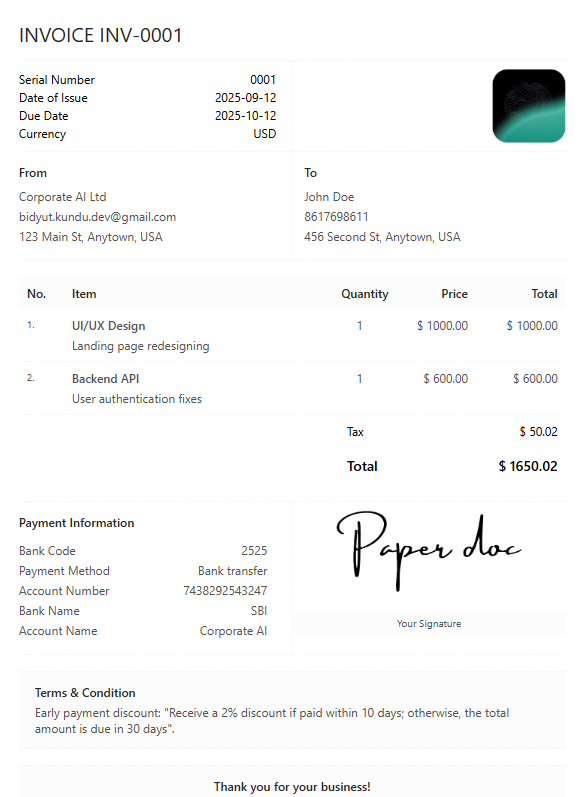
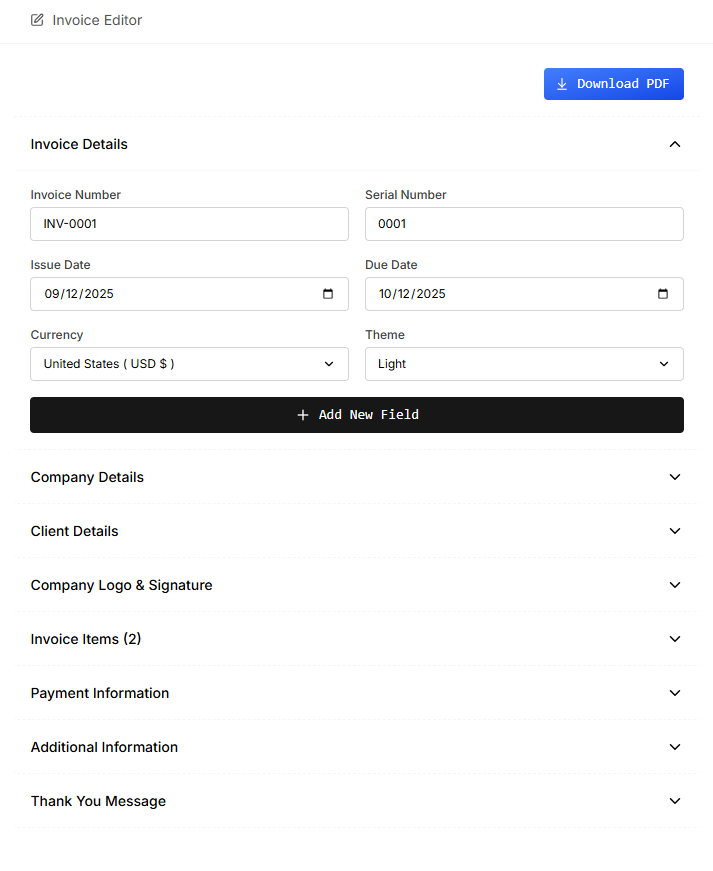
Border chnages

diff --git a/src/components/ui/Sidebar.jsx b/src/components/ui/Sidebar.jsx
@@ -1,21 +1,64 @@
-import React from 'react'
-import { FileText } from 'lucide-react';
+import React from "react";
+import { ArrowUpRight, Bug, FileText, Github, Heart, LayoutTemplate, Shapes } from "lucide-react";
 
-const Sidebar = ({ active = 'invoice', onSelect = () => {} }) => {
+const OPEN_SOURCE_PROJECTS = [
+  { name: "NextIcons", url: "https://nexticons.in", icon: Shapes },
+  { name: "Opensource UI", url: "https://opensourceui.in", icon: LayoutTemplate },
+];
+
+const LINKS = {
+  sponsor: "https://buymeacoffee.com/bidyutkundu",
+  github: "https://github.com/bidyut10",
+  twitter: "https://x.com/BidyutKundu12",
+};
+
+const BUG_REPORT_EMAIL =
+  "mailto:bidyut.kundu.dev@gmail.com?subject=Paperdoc%20Bug%20Report&body=Please%20describe%20the%20bug%20and%20how%20to%20reproduce%20it.";
+
+const navLinkClass =
+  "ml-6 flex cursor-pointer items-center gap-2 mt-3 text-neutral-500 transition-colors hover:text-neutral-900";
+
+const Sidebar = ({ active = "invoice", onSelect = () => {} }) => {
   return (
-    <div className="w-full h-full bg-white px-4 py-4 border-r border-neutral-100 animate-slide-in">
-      <div className="flex justify-start items-center gap-2 bg-neutral-50/50 rounded-sm px-4 py-1">
-        {/* <Wallet className="text-neutral-900" size={12} /> */}
-        <h1 className="text-neutral-900 text-xs">Finance</h1>
+    <div className="flex h-full min-h-[calc(100vh-4rem)] w-full flex-col bg-white px-4 py-4 border-r border-neutral-100 animate-slide-in">
+      <div>
+        <div className="flex justify-start items-center gap-2 bg-neutral-50/50 rounded-sm px-4 py-1">
+          {/* <Wallet className="text-neutral-900" size={12} /> */}
+          <h1 className="text-neutral-900 text-xs">Finance</h1>
+        </div>
+        <button
+          onClick={() => onSelect("invoice")}
+          className={`ml-6 cursor-pointer flex justify-start items-center gap-2 mt-3 ${active === "invoice" ? "" : ""}`}
+        >
+          <FileText
+            className={active === "invoice" ? "text-neutral-900" : "text-neutral-500"}
+            size={12}
+          />
+          <h1
+            className={
+              active === "invoice" ? "text-neutral-900 text-sm" : "text-neutral-500 text-sm"
+            }
+          >
+            Create Invoice
+          </h1>
+        </button>
+        <button
+          onClick={() => onSelect("receipt")}
+          className={`ml-6 cursor-pointer flex justify-start items-center gap-2 mt-3 ${active === "receipt" ? "" : ""}`}
+        >
+          <FileText
+            className={active === "receipt" ? "text-neutral-900" : "text-neutral-500"}
+            size={13}
+          />
+          <h1
+            className={
+              active === "receipt" ? "text-neutral-900 text-sm" : "text-neutral-500 text-sm"
+            }
+          >
+            Create Receipt
+          </h1>
+        </button>
       </div>
-      <button onClick={() => onSelect('invoice')} className={`ml-6 cursor-pointer flex justify-start items-center gap-2 mt-3 ${active === 'invoice' ? '' : ''}`}>
-        <FileText className={active === 'invoice' ? "text-neutral-900" : "text-neutral-500"} size={12} />
-        <h1 className={active === 'invoice' ? "text-neutral-900 text-sm" : "text-neutral-500 text-sm"}>Create Invoice</h1>
-      </button>
-      <button onClick={() => onSelect('receipt')} className={`ml-6 cursor-pointer flex justify-start items-center gap-2 mt-3 ${active === 'receipt' ? '' : ''}`}>
-        <FileText className={active === 'receipt' ? "text-neutral-900" : "text-neutral-500"} size={13} />
-        <h1 className={active === 'receipt' ? "text-neutral-900 text-sm" : "text-neutral-500 text-sm"}>Create Receipt</h1>
-      </button>
       {/* <div className="flex justify-start items-center gap-2 bg-neutral-50/50 rounded-sm px-4 py-1 mt-6">
         <h1 className="text-neutral-800 text-xs">Product</h1>
       </div>
@@ -27,8 +70,70 @@ const Sidebar = ({ active = 'invoice', onSelect = () => {} }) => {
         <FileText className="text-neutral-600" size={13} />
         <h1 className="text-neutral-600 text-sm">Create Receipt</h1>
       </div> */}
+
+      <div className="mt-auto">
+        <div className="mt-6 flex justify-start items-center gap-2 bg-neutral-50/50 rounded-sm px-4 py-1">
+          <h1 className="text-neutral-900 text-xs">More free tools</h1>
+        </div>
+        {OPEN_SOURCE_PROJECTS.map((project) => {
+          const Icon = project.icon;
+          return (
+            <a
+              key={project.url}
+              href={project.url}
+              target="_blank"
+              rel="noopener noreferrer"
+              className={navLinkClass}
+            >
+              <Icon className="text-neutral-500" size={12} />
+              <h1 className="text-sm text-neutral-500 hover:text-blue-800 border-b border-neutral-500 hover:border-blue-800">{project.name}</h1>
+            </a>
+          );
+        })}
+
+        <div className="mt-6 flex justify-start items-center gap-2 bg-neutral-50/50 rounded-sm px-4 py-1">
+          <h1 className="text-neutral-900 text-xs">Support</h1>
+        </div>
+        <a
+          href={LINKS.sponsor}
+          target="_blank"
+          rel="noopener noreferrer"
+          className={navLinkClass}
+        >
+          <Heart className="text-red-500 fill-red-500" size={12} />
+          <h1 className="text-sm text-neutral-500">Sponsor us</h1>
+        </a>
+        <a
+          href={LINKS.github}
+          target="_blank"
+          rel="noopener noreferrer"
+          className={navLinkClass}
+        >
+          <Github className="text-neutral-500" size={12} />
+          <h1 className="text-sm text-neutral-500">Star us on GitHub</h1>
+        </a>
+        <a
+          href={LINKS.twitter}
+          target="_blank"
+          rel="noopener noreferrer"
+          className={navLinkClass}
+        >
+          <ArrowUpRight className="text-neutral-500" size={12} />
+          <h1 className="text-sm text-neutral-500">Follow us on Twitter</h1>
+        </a>
+        <div className="mt-4 px-2">
+          <a
+            href={BUG_REPORT_EMAIL}
+            className="flex w-full cursor-pointer items-center justify-center gap-2 overflow-hidden rounded-sm bg-gradient-to-br from-red-400 to-red-500 px-3 py-2 text-white transition-all duration-200 hover:from-red-500 hover:to-red-600"
+          >
+            <Bug size={14} />
+            <span className="text-sm">Found a bug?  Tell us</span>
+            <ArrowUpRight size={14} strokeWidth={2.5} />
+          </a>
+        </div>
+      </div>
     </div>
   );
-}
+};
 
-export default Sidebar
+export default Sidebar;

diff --git a/src/components/ui/Navbar.jsx b/src/components/ui/Navbar.jsx
@@ -1,5 +1,5 @@
 import React, { useState, useEffect } from "react";
-import { Menu, X, Github } from "lucide-react";
+import { Menu, X } from "lucide-react";
 import Logo from "./Logo";
 
 const Navbar = ({
@@ -38,71 +38,38 @@ const Navbar = ({
   return (
     <nav className="fixed top-0 left-0 right-0 border-b w-full border-neutral-100 bg-white text-neutral-800 transition-all duration-300 ease-in-out selection:bg-neutral-200 selection:text-neutral-950 dark:border-[#1c1c1c] dark:bg-[#181818] z-50">
       <div className="mx-auto flex h-16 max-w-full bg-white items-center justify-between">
-        <div
-          className={`flex items-center justify-between gap-4 ${
-            isMobile ? "w-fit" : "w-[17%]"
-          } border-x-none h-full px-4 md:px-6 xl:border-x xl:border-neutral-100`}
-        >
-          {isMobile ? (
-            <>
-              <button
-                className="flex items-center w-8 h-8 p-2 cursor-pointer text-xs text-neutral-600 bg-neutral-50/50 rounded-md transition-all duration-200 group border border-transparent hover:border-neutral-200"
-                onClick={isMenuOpen ? handleMenuClose : handleMenuToggle}
-                type="button"
-                style={{ touchAction: "manipulation" }}
-                title={isMenuOpen ? "Close Menu" : "Open Menu"}
-              >
-                {isMenuOpen ? (
-                  <X
-                    className="pointer-events-none text-neutral-700 group-hover:text-neutral-700 group-hover:fill-neutral-600 transition-colors duration-300 ease-in-out"
-                    strokeWidth={1.8}
-                  />
-                ) : (
-                  <Menu
-                    className="pointer-events-none text-neutral-700 group-hover:text-neutral-700 group-hover:fill-neutral-600 transition-colors duration-300 ease-in-out"
-                    strokeWidth={1.8}
-                  />
-                )}
-              </button>
-              <div className="flex items-center justify-center gap-2">
-                <Logo className="h-8 md:h-12"/>
-              </div>
-            </>
-          ) : (
-            <>
-              <div className="flex items-center justify-center gap-2">
-                <Logo className="h-10" />
-              </div>
-            </>
-          )}
-        </div>
-
-        <div
-          className={`flex items-center justify-between gap-4 h-full px-4 md:px-6`}
-        >
-          <div className={`flex items-center justify-end gap-4`}>
+        {isMobile ? (
+          <div className="flex w-full items-center justify-between px-4 md:px-6">
+            <Logo className="h-8 md:h-12" />
             <button
-              className="flex items-center font-mono text-xs cursor-pointer text-neutral-700 border-b border-neutral-700 hover:text-neutral-900 transition-colors duration-300 ease-in-out"
-              onClick={() =>
-                window.open("https://github.com/bidyut10", "_blank")
-              }
+              className="flex items-center group"
+              onClick={isMenuOpen ? handleMenuClose : handleMenuToggle}
               type="button"
               style={{ touchAction: "manipulation" }}
+              title={isMenuOpen ? "Close Menu" : "Open Menu"}
             >
-              <h1>Github</h1>
-            </button>
-            <button
-              className="flex items-center font-mono text-xs cursor-pointer text-neutral-700 border-b border-neutral-700 hover:text-neutral-900 transition-colors duration-300 ease-in-out"
-              onClick={() =>
-                window.open("https://x.com/BidyutKundu12", "_blank")
-              }
-              type="button"
-              style={{ touchAction: "manipulation" }}
-            >
-              <h1>Twitter</h1>
+              {isMenuOpen ? (
+                <X
+                  className="pointer-events-none text-neutral-800 group-hover:text-neutral-950 transition-colors duration-300 ease-in-out"
+                  strokeWidth={1.8}
+                  size={24}
+                />
+              ) : (
+                <Menu
+                  className="pointer-events-none text-neutral-800 group-hover:text-neutral-950 transition-colors duration-240 ease-in-out"
+                  strokeWidth={1.8}
+                  size={24}
+                />
+              )}
             </button>
           </div>
-        </div>
+        ) : (
+          <>
+            <div className="flex w-[17%] items-center border-x-none h-full px-4 md:px-6 xl:border-x xl:border-neutral-100">
+              <Logo className="h-10" />
+            </div>
+          </>
+        )}
       </div>
     </nav>
   );

diff --git a/src/components/receipt/editor/ReceiptEditor.jsx b/src/components/receipt/editor/ReceiptEditor.jsx
@@ -8,7 +8,7 @@ import ReceiptBasicInfoEditor from "./ReceiptBasicInfoEditor";
 import CompanyEditor from "../../invoice/editor/CompanyEditor";
 import ClientEditor from "../../invoice/editor/ClientEditor";
 import ItemsEditor from "../../invoice/editor/ItemsEditor";
-import { ArrowDownToLine, Loader2, CheckCircle, XCircle } from "lucide-react";
+import { ArrowDownToLine, Loader, CheckCircle, XCircle } from "lucide-react";
 import { downloadReceiptPDF } from "../utils/index";
 
 const ReceiptEditor = () => {
@@ -122,19 +122,19 @@ const ReceiptEditor = () => {
           <button
             onClick={handleDownloadPDF}
             disabled={downloadState.isLoading}
-            className={`bg-gradient-to-br from-cyan-400 to-cyan-500 pl-1.5 pr-2 py-1.5 rounded-lg border-2 border-cyan-400 relative flex justify-center items-center overflow-hidden text-white gap-2 cursor-pointer transition-all duration-200 min-w-[140px] ${
+            className={`bg-gradient-to-br from-blue-600 to-blue-700 pl-1.5 pr-2 py-1.5 rounded-sm relative flex justify-center items-center overflow-hidden text-white gap-2 cursor-pointer transition-all duration-200 min-w-[140px] ${
               downloadState.isLoading
                 ? "opacity-75 cursor-not-allowed"
                 : downloadState.success
-                ? "from-green-400 to-green-500 border-green-400"
+                ? "from-green-400 to-green-500"
                 : downloadState.error
-                ? "from-red-400 to-red-500 border-red-400"
-                : "hover:from-cyan-500 hover:to-cyan-600"
+                ? "from-red-400 to-red-500"
+                : "hover:from-blue-500 hover:to-blue-600"
             }`}
           >
             <div className="absolute inset-0 bg-gradient-to-br from-white/20 to-transparent"></div>
             {downloadState.isLoading ? (
-              <Loader2 size={14} className="animate-spin" />
+              <Loader size={14} className="animate-spin" />
             ) : downloadState.success ? (
               <CheckCircle size={14} />
             ) : downloadState.error ? (

diff --git a/src/components/invoice/editor/InvoiceEditor.jsx b/src/components/invoice/editor/InvoiceEditor.jsx
@@ -10,7 +10,7 @@ import ClientEditor from "./ClientEditor";
 import ItemsEditor from "./ItemsEditor";
 import {
   ArrowDownToLine,
-  Loader2,
+  Loader,
   CheckCircle,
   XCircle,
 } from "lucide-react";
@@ -172,19 +172,19 @@ const InvoiceEditor = () => {
           <button
             onClick={handleDownloadPDF}
             disabled={downloadState.isLoading}
-            className={`bg-gradient-to-br from-cyan-400 to-cyan-500 pl-1.5 pr-2 py-1.5 rounded-lg border-2 border-cyan-400 relative flex justify-center items-center overflow-hidden text-white gap-2 cursor-pointer transition-all duration-200 min-w-[140px] ${
+            className={`bg-gradient-to-br from-blue-600 to-blue-700 pl-1.5 pr-2 py-1.5 rounded-sm relative flex justify-center items-center overflow-hidden text-white gap-2 cursor-pointer transition-all duration-200 min-w-[140px] ${
               downloadState.isLoading
                 ? "opacity-75 cursor-not-allowed"
                 : downloadState.success
-                ? "from-green-400 to-green-500 border-green-400"
+                ? "from-green-400 to-green-500"
                 : downloadState.error
-                ? "from-red-400 to-red-500 border-red-400"
-                : "hover:from-cyan-500 hover:to-cyan-600"
+                ? "from-red-400 to-red-500"
+                : "hover:from-blue-500 hover:to-blue-600"
             }`}
           >
             <div className="absolute inset-0 bg-gradient-to-br from-white/20 to-transparent"></div>
             {downloadState.isLoading ? (
-              <Loader2 size={14} className="animate-spin" />
+              <Loader size={14} className="animate-spin" />
             ) : downloadState.success ? (
               <CheckCircle size={14} />
             ) : downloadState.error ? (

diff --git a/src/components/home/Hero.jsx b/src/components/home/Hero.jsx
@@ -142,12 +142,12 @@ const LandingPage = ({ onNavigate }) => {
   return (
     <div className="min-h-screen bg-white text-neutral-600">
       <section className="relative bg-white">
-        <div className="pointer-events-none absolute inset-x-0 top-0 w-full bg-white">
-          <div className="relative overflow-hidden bg-white">
+        <div className="pointer-events-none absolute inset-x-0 top-0 w-full max-md:h-dvh bg-white">
+          <div className="relative overflow-hidden bg-white max-md:h-full">
             <img
               src={wallpaper3}
               alt=""
-              className="block w-full scale-[1.03] h-auto"
+              className="block w-full scale-[1.03] max-md:h-full max-md:object-cover max-md:object-top md:h-auto"
               style={WALLPAPER_MASK}
             />
             <div
